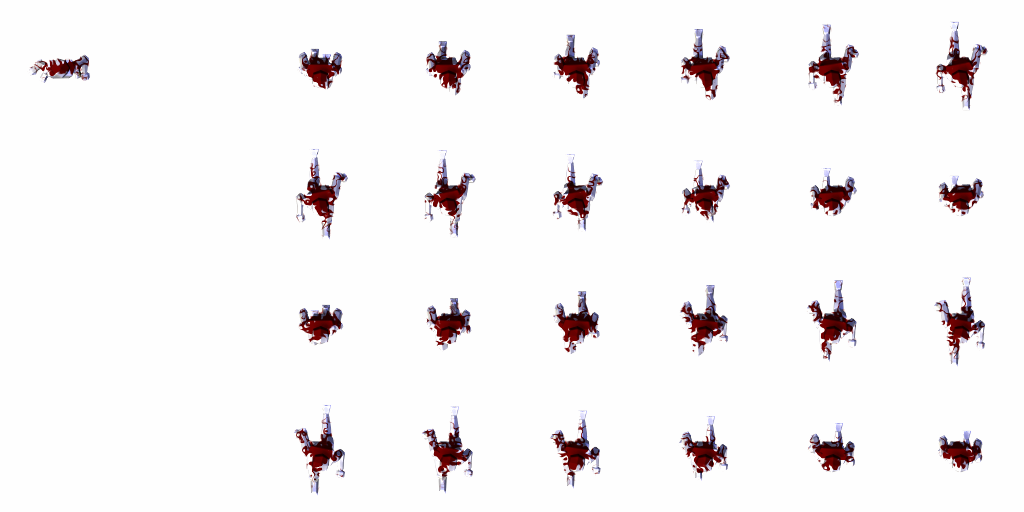
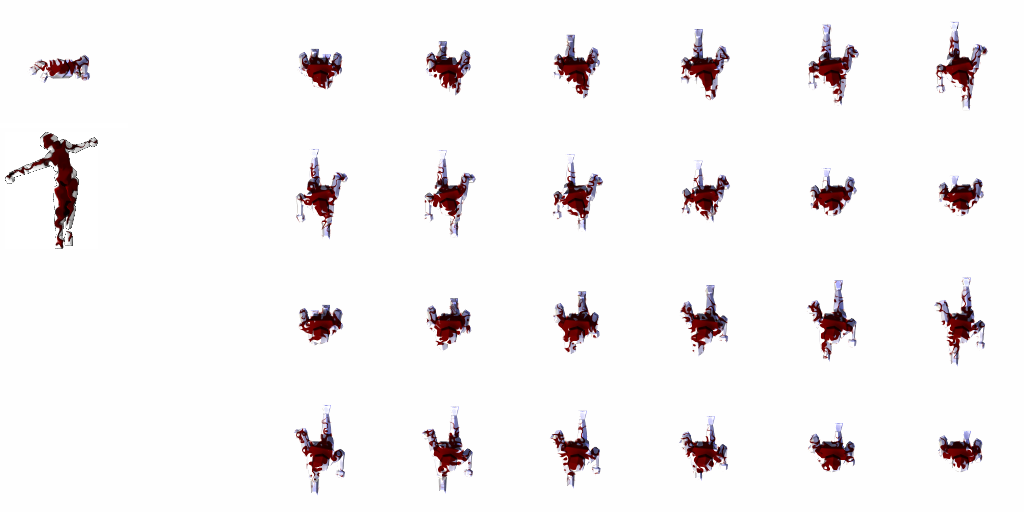
Added victory condition added dead state for zombies added shooting

Changed region(s): [[0.0, 0.25, 0.0938, 0.5]]

diff --git a/games/ZombieSurvival/ZombieSurvival.cpp b/games/ZombieSurvival/ZombieSurvival.cpp
@@ -276,6 +276,7 @@ void ZombieSurvival::spawnZombie()
 {
 	Zombie* z = new Zombie();
 	z->zombieSprite = new blib::Animation("assets/games/ZombieSurvival/zombie.json", resourceManager);
+	z->zombieSprite->setState("idle");
 	z->zombieSprite->update(blib::math::randomDouble(0, 10));
 	z->direction = (float)(rand() % 360);
 
@@ -393,10 +394,43 @@ void ZombieSurvival::update(float elapsedTime)
 			p->playerAnimation->setState("idle");
 			p->accuracy *= glm::pow(0.25f, elapsedTime);
 		}
+
+		if (p->joystick.a == 1 && p->prevJoystick.a == 0)
+		{
+			blib::math::Line shootRay(p->position, p->position + 1000.0f * blib::util::fromAngle(glm::radians(p->rotation + blib::math::randomFloat(-p->accuracy, p->accuracy))));
+			std::vector<std::pair<glm::vec2, blib::math::Line> > collisions;
+			for (auto o : objects)
+				if (o.intersects(shootRay, &collisions))
+					for (auto c : collisions)
+						if (glm::distance(p->position, c.first) < shootRay.length())
+							shootRay.p2 = c.first;
+			for (Zombie* z : zombies)
+				if (z->hp > 0 && glm::distance(shootRay.project(z->position), z->position) < 30)
+					shootRay.p2 = shootRay.project(z->position);
+
+
+			for (auto z : zombies)
+				if (glm::distance(z->position, shootRay.project(z->position)) < 25 && z->hp > 0)
+				{
+					z->hp--;
+					if (z->hp <= 0)
+					{
+						z->zombieSprite->setState("dead");
+						z->zombieSprite->update(elapsedTime * 0.1f);
+					}
+				}
+
+			shootLines.push_back(std::pair<blib::math::Line, float>(shootRay, 1.0f));
+		}
+
+
 	}
 
 	for (auto z : zombies)
 	{
+		if (z->hp <= 0)
+			continue;
+
 		glm::vec2 oldPos = z->position;
 		z->position += blib::util::fromAngle(glm::radians(z->direction)) * (z->target == NULL ? 50.0f : 150)* elapsedTime;
 		blib::math::Line ray(oldPos, z->position);
@@ -427,7 +461,7 @@ void ZombieSurvival::update(float elapsedTime)
 			if (!collided)
 				for (auto d : doors)
 				{
-					if (glm::distance(z->position, glm::vec2(32 * d)+glm::vec2(16,32)) < 32)
+					if (glm::distance(z->position, glm::vec2(32 * d) + glm::vec2(16, 32)) < 32)
 					{
 						z->position = glm::vec2(32 * d) + glm::vec2(16, 32) + 32.01f * glm::normalize(z->position - (glm::vec2(32 * d) + glm::vec2(16, 32)));
 						ray.p2 = z->position;
@@ -481,12 +515,23 @@ void ZombieSurvival::update(float elapsedTime)
 		}
 
 
-
-		z->zombieSprite->setState("walk");
+		if (z->hp > 0)
+			z->zombieSprite->setState("walk");
 		if(z->target)
 			z->zombieSprite->update(elapsedTime * 1.5f);
 		else
 			z->zombieSprite->update(elapsedTime * 0.1f);
+	}
+
+
+	for (int i = 0; i < (int)shootLines.size(); i++)
+	{
+		shootLines[i].second -= elapsedTime * 2;
+		if (shootLines[i].second < 0)
+		{
+			shootLines.erase(shootLines.begin() + i);
+			i--;
+		}
 	}
 
 
@@ -586,9 +631,12 @@ void ZombieSurvival::draw()
 	
 	spriteBatch->drawCache(levelCache);
 
-	spriteBatch->draw(finishSprite, blib::math::easyMatrix(glm::vec2(128, 200)));
+	spriteBatch->draw(finishSprite, blib::math::easyMatrix(glm::vec2(100, 250)), finishSprite->center);
 
 	
+	for (const std::pair<blib::math::Line, float>& l : shootLines)
+		lineBatch->draw(l.first, glm::vec4(1, 1, 1, l.second));
+
 	/*for (auto p : objects)
 		lineBatch->draw(p, glm::vec4(0, 0, 1, 1));
 	for (auto p : collisionObjects)
@@ -660,4 +708,18 @@ void ZombieSurvival::buildLevelCache()
 	}
 	levelCache = spriteBatch->getCache();
 	spriteBatch->end();
+}
+
+bool ZombieSurvival::hasWinner()
+{
+	if (!blib::linq::any(players, [](ZombieSurvivalPlayer* p) { return p->alive; }))
+		return true;
+	if (blib::linq::any(players, [](ZombieSurvivalPlayer* p) { return p->alive && glm::distance(p->position, glm::vec2(100, 250)) < 50; }))
+		return true;
+	return false;
+}
+
+std::list<Player*> ZombieSurvival::getWinners()
+{
+	return blib::linq::where<std::list<Player*>>(players, [](ZombieSurvivalPlayer* p) { return p->alive && glm::distance(p->position, glm::vec2(100, 250)) < 50; });
 }

diff --git a/games/ZombieSurvival/ZombieSurvival.h b/games/ZombieSurvival/ZombieSurvival.h
@@ -9,7 +9,7 @@
 
 namespace blib { class Texture; class Font; class Animation;  class VBO; class FBO; class Shader; }
 
-class ZombieSurvival : public AliveGame<ZombieSurvivalPlayer>
+class ZombieSurvival : public Game<ZombieSurvivalPlayer>
 {
 public:
 	blib::Texture* backSprite;
@@ -29,6 +29,7 @@ public:
 	std::vector<blib::math::Polygon> collisionObjects;
 	std::vector<blib::math::Rectangle> collisionAabb;
 	std::vector<glm::ivec2> doors;
+	std::vector<std::pair<blib::math::Line, float> > shootLines;
 	
 
 	blib::FBO* visionFbo;
@@ -39,6 +40,8 @@ public:
 
 	void spawnZombie();
 
+
+	
 
 
 	virtual std::pair<int, int> getPlayerCount() { return std::pair<int, int>(1, 100); }
@@ -53,10 +56,8 @@ public:
 	virtual void draw();
 	virtual blib::Texture* getTitleImage();
 
-/*	virtual bool hasWinner() override
-	{
-		return false; 
-	}*/
+	virtual bool hasWinner();
+	virtual std::list<Player*> getWinners();
 
 };
 

diff --git a/games/ZombieSurvival/Zombie.h b/games/ZombieSurvival/Zombie.h
@@ -13,6 +13,7 @@ public:
 	float direction;
 	float rotation;
 
+	int hp = 2;
 	float timer;
 	ZombieSurvivalPlayer* target;
 
